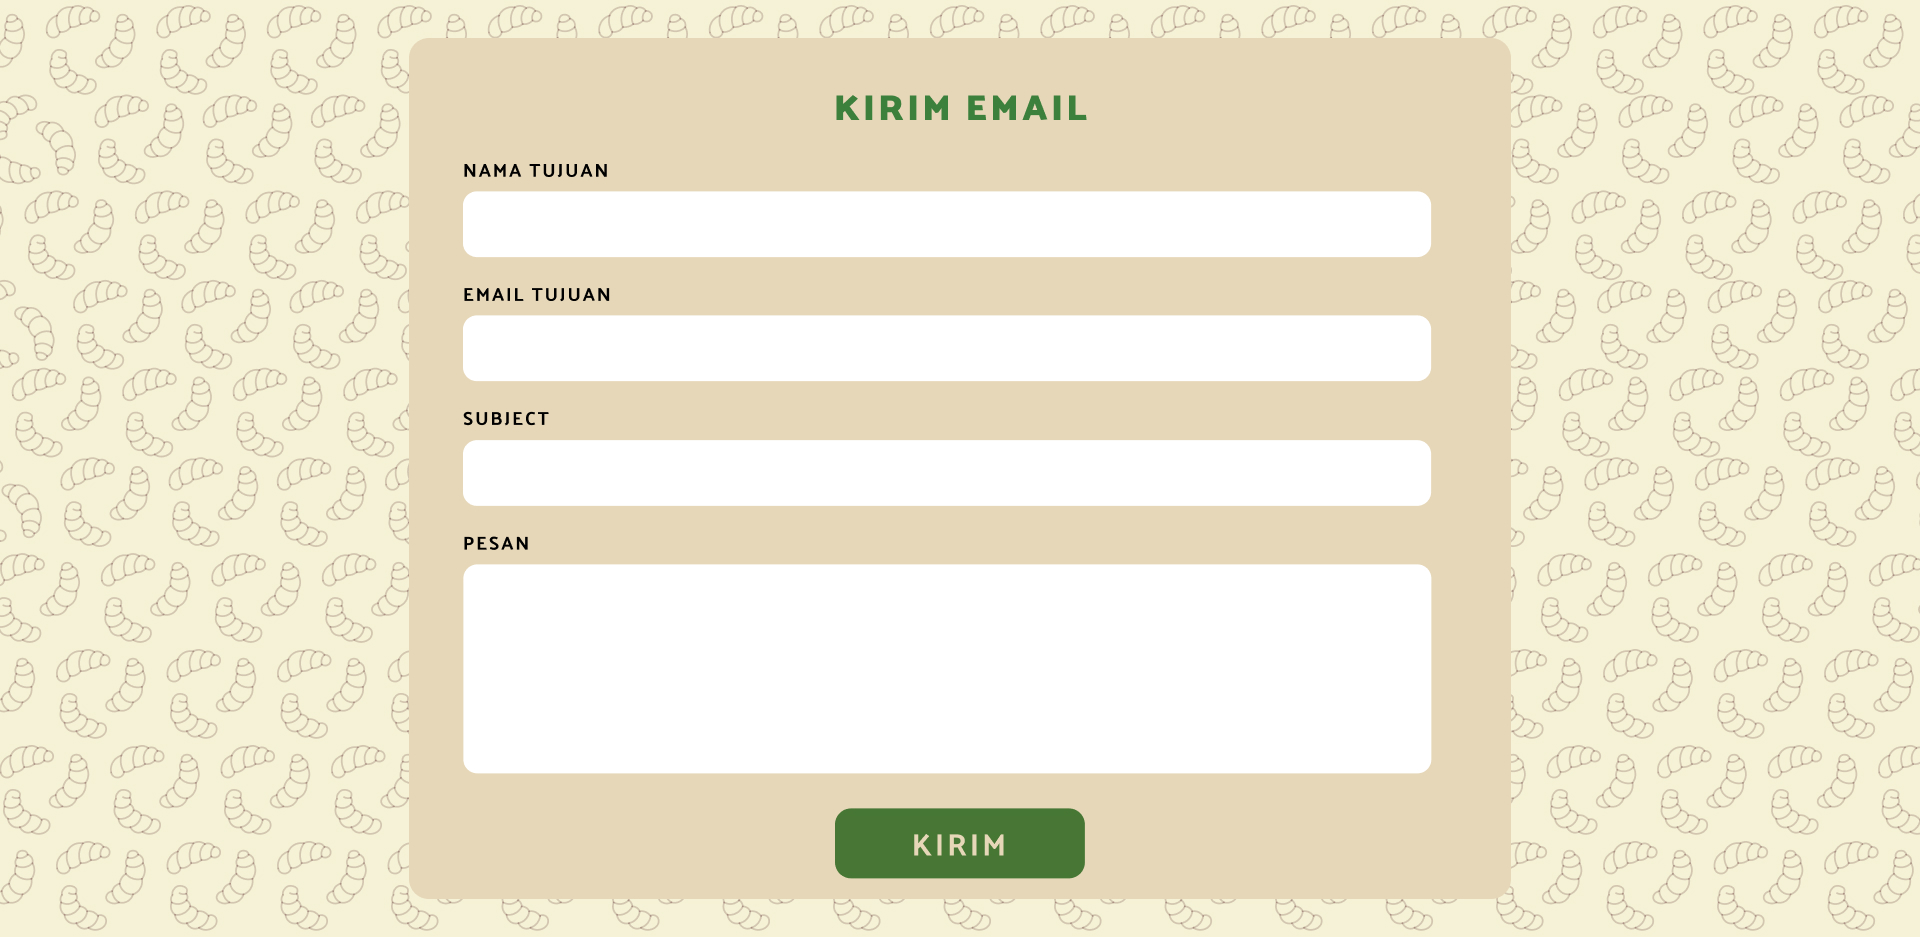
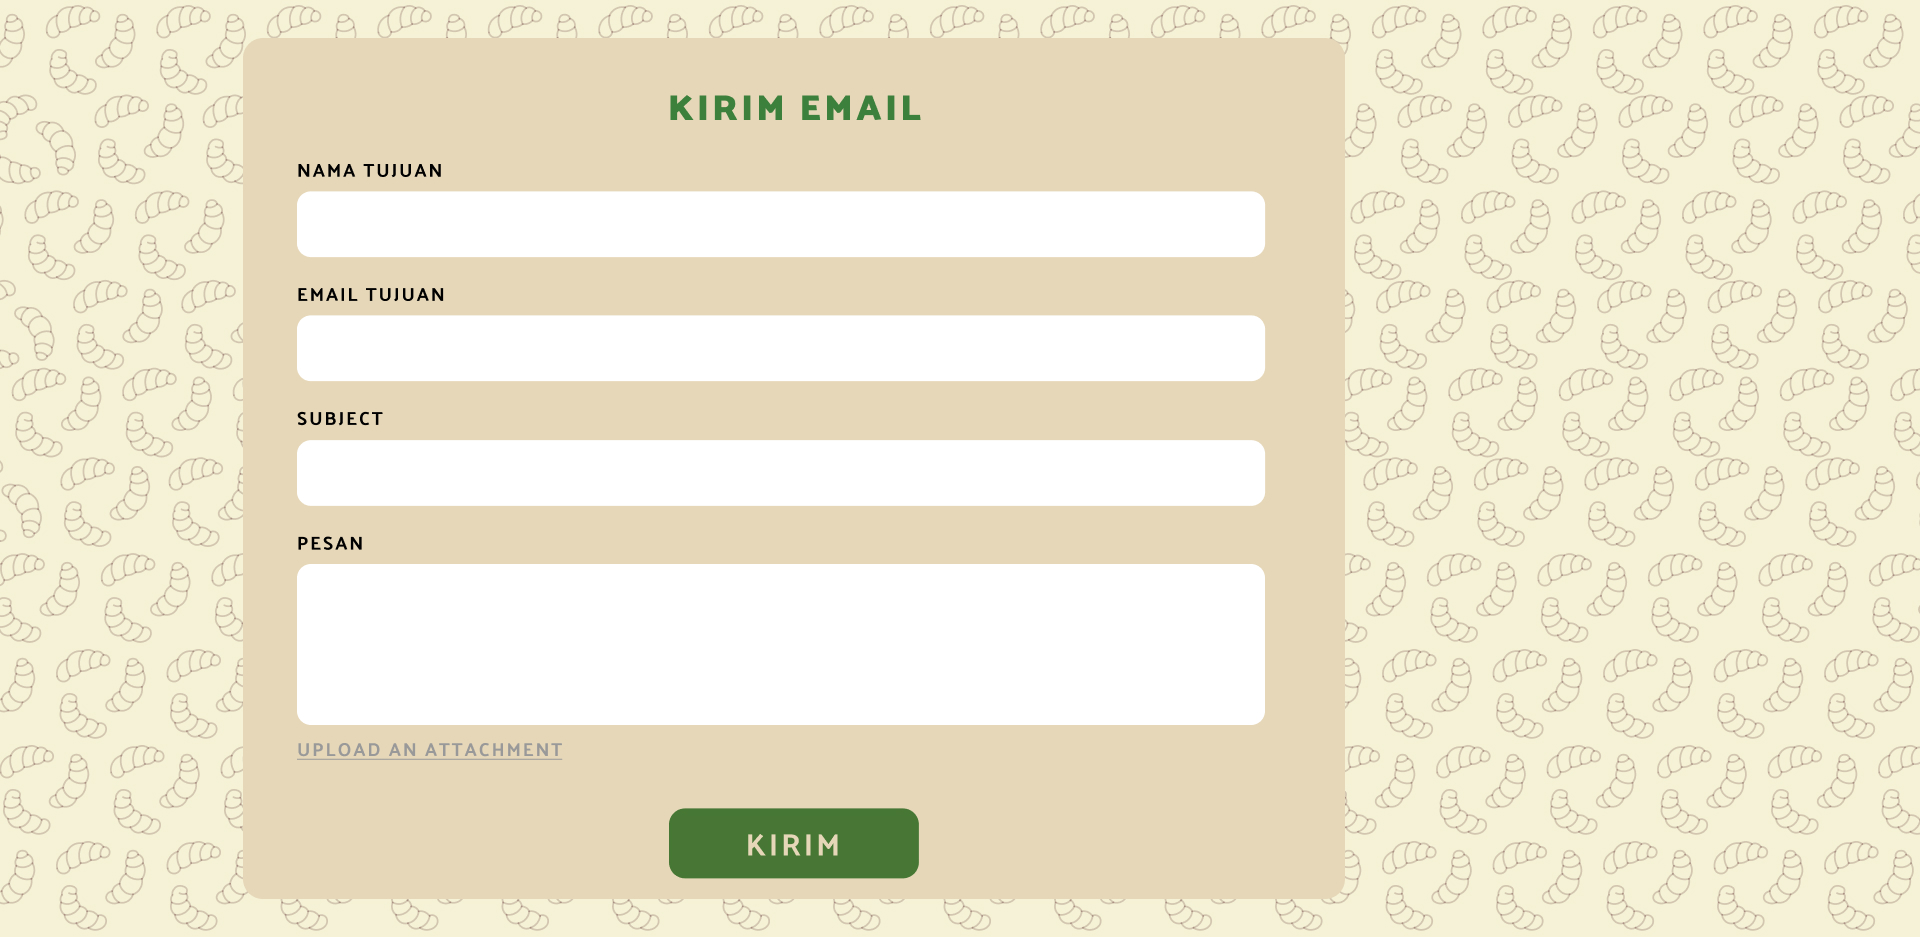
upload alll in one

diff --git a/Republik Larva/Views/V_SendEmail.Designer.cs b/Republik Larva/Views/V_SendEmail.Designer.cs
@@ -33,6 +33,10 @@
             subject = new TextBox();
             pesan = new RichTextBox();
             btnSendEmail = new Button();
+            dataGridView1 = new DataGridView();
+            uploadFile = new Button();
+            namaFile = new Label();
+            ((System.ComponentModel.ISupportInitialize)dataGridView1).BeginInit();
             SuspendLayout();
             // 
             // namaTujuan
@@ -40,46 +44,42 @@
             namaTujuan.BorderStyle = BorderStyle.None;
             namaTujuan.Cursor = Cursors.IBeam;
             namaTujuan.Font = new Font("Segoe UI", 16.2F, FontStyle.Regular, GraphicsUnit.Point, 0);
-            namaTujuan.Location = new Point(489, 206);
+            namaTujuan.Location = new Point(320, 206);
             namaTujuan.Name = "namaTujuan";
             namaTujuan.Size = new Size(917, 36);
             namaTujuan.TabIndex = 0;
-            namaTujuan.TextChanged += namaTujuan_TextChanged;
             // 
             // emailTujuan
             // 
             emailTujuan.BorderStyle = BorderStyle.None;
             emailTujuan.Cursor = Cursors.IBeam;
             emailTujuan.Font = new Font("Segoe UI", 16.2F, FontStyle.Regular, GraphicsUnit.Point, 0);
-            emailTujuan.Location = new Point(489, 331);
+            emailTujuan.Location = new Point(320, 330);
             emailTujuan.Name = "emailTujuan";
             emailTujuan.Size = new Size(917, 36);
             emailTujuan.TabIndex = 1;
-            emailTujuan.TextChanged += emailTujuan_TextChanged;
             // 
             // subject
             // 
             subject.BorderStyle = BorderStyle.None;
             subject.Cursor = Cursors.IBeam;
             subject.Font = new Font("Segoe UI", 16.2F, FontStyle.Regular, GraphicsUnit.Point, 0);
-            subject.Location = new Point(489, 456);
+            subject.Location = new Point(320, 456);
             subject.Name = "subject";
             subject.Size = new Size(917, 36);
             subject.TabIndex = 2;
-            subject.TextChanged += subject_TextChanged;
             // 
             // pesan
             // 
             pesan.BorderStyle = BorderStyle.None;
             pesan.Cursor = Cursors.IBeam;
             pesan.Font = new Font("Segoe UI", 16.2F, FontStyle.Regular, GraphicsUnit.Point, 0);
-            pesan.Location = new Point(489, 575);
+            pesan.Location = new Point(320, 577);
             pesan.Name = "pesan";
             pesan.ScrollBars = RichTextBoxScrollBars.Vertical;
-            pesan.Size = new Size(917, 186);
+            pesan.Size = new Size(917, 128);
             pesan.TabIndex = 3;
             pesan.Text = "";
-            pesan.TextChanged += pesan_TextChanged;
             // 
             // btnSendEmail
             // 
@@ -90,7 +90,7 @@
             btnSendEmail.FlatAppearance.MouseDownBackColor = Color.Transparent;
             btnSendEmail.FlatAppearance.MouseOverBackColor = Color.Transparent;
             btnSendEmail.FlatStyle = FlatStyle.Flat;
-            btnSendEmail.Location = new Point(835, 808);
+            btnSendEmail.Location = new Point(669, 808);
             btnSendEmail.Name = "btnSendEmail";
             btnSendEmail.Size = new Size(250, 70);
             btnSendEmail.TabIndex = 4;
@@ -99,11 +99,50 @@
             btnSendEmail.MouseEnter += btnSendEmail_MouseEnter;
             btnSendEmail.MouseLeave += btnSendEmail_MouseLeave;
             // 
+            // dataGridView1
+            // 
+            dataGridView1.BackgroundColor = Color.FromArgb(245, 242, 214);
+            dataGridView1.BorderStyle = BorderStyle.None;
+            dataGridView1.AutoSizeColumnsMode = DataGridViewAutoSizeColumnsMode.Fill;
+            dataGridView1.AutoSizeRowsMode = DataGridViewAutoSizeRowsMode.AllCells;
+            dataGridView1.ColumnHeadersHeightSizeMode = DataGridViewColumnHeadersHeightSizeMode.AutoSize;
+            dataGridView1.Location = new Point(1382, 43);
+            dataGridView1.Name = "dataGridView1";
+            dataGridView1.RowHeadersWidth = 51;
+            dataGridView1.Size = new Size(486, 855);
+            dataGridView1.TabIndex = 5;
+            // 
+            // uploadFile
+            // 
+            uploadFile.BackColor = Color.Transparent;
+            uploadFile.FlatAppearance.BorderSize = 0;
+            uploadFile.FlatAppearance.MouseDownBackColor = Color.Transparent;
+            uploadFile.FlatAppearance.MouseOverBackColor = Color.Transparent;
+            uploadFile.FlatStyle = FlatStyle.Flat;
+            uploadFile.Location = new Point(292, 735);
+            uploadFile.Name = "uploadFile";
+            uploadFile.Size = new Size(282, 29);
+            uploadFile.TabIndex = 6;
+            uploadFile.UseVisualStyleBackColor = false;
+            uploadFile.Click += uploadFile_Click;
+            // 
+            // namaFile
+            // 
+            namaFile.BackColor = Color.Transparent;
+            namaFile.Font = new Font("Segoe UI", 13.8F, FontStyle.Regular, GraphicsUnit.Point, 0);
+            namaFile.Location = new Point(594, 735);
+            namaFile.Name = "namaFile";
+            namaFile.Size = new Size(672, 39);
+            namaFile.TabIndex = 7;
+            // 
             // V_SendEmail
             // 
             AutoScaleDimensions = new SizeF(8F, 20F);
             AutoScaleMode = AutoScaleMode.Font;
             BackgroundImage = Properties.Resources.sendEmail;
+            Controls.Add(namaFile);
+            Controls.Add(uploadFile);
+            Controls.Add(dataGridView1);
             Controls.Add(btnSendEmail);
             Controls.Add(pesan);
             Controls.Add(subject);
@@ -112,6 +151,7 @@
             Name = "V_SendEmail";
             Size = new Size(1920, 937);
             Load += V_SendEmail_Load;
+            ((System.ComponentModel.ISupportInitialize)dataGridView1).EndInit();
             ResumeLayout(false);
             PerformLayout();
         }
@@ -125,5 +165,8 @@
         private TextBox subject;
         private RichTextBox pesan;
         private Button btnSendEmail;
+        private DataGridView dataGridView1;
+        private Button uploadFile;
+        private Label namaFile;
     }
 }

diff --git a/Republik Larva/Views/V_SendEmail.cs b/Republik Larva/Views/V_SendEmail.cs
@@ -2,26 +2,26 @@
 using MailKit;
 using Republik_Larva.Controller;
 using System;
-using System.Collections.Generic;
-using System.ComponentModel;
 using System.Data;
 using System.Drawing;
-using System.Linq;
-using System.Text;
-using System.Threading.Tasks;
-using MailKit.Net.Smtp;
 using System.Windows.Forms;
-using Republik_Larva.Controller;
+using MailKit.Net.Smtp;
+using Republik_Larva.Models;
 
 namespace Republik_Larva.Views
 {
     public partial class V_SendEmail : UserControl
     {
-        C_SendEmail c_SendEmail;
+        private C_SendEmail c_SendEmail;
+        private string attachmentPath = null;
+
         public V_SendEmail(C_SendEmail c_SendEmail)
         {
             InitializeComponent();
+            this.c_SendEmail = c_SendEmail;
+            LoadCustomerData();
         }
+
         private void btnSendEmail_Click(object sender, EventArgs e)
         {
             try
@@ -37,6 +37,11 @@ namespace Republik_Larva.Views
                     HtmlBody = $"<p>{pesan.Text}</p><br><footer>Powered by insensateecho@gmail.com</footer>"
                 };
 
+                if (!string.IsNullOrEmpty(attachmentPath))
+                {
+                    builder.Attachments.Add(attachmentPath);
+                }
+
                 email.Body = builder.ToMessageBody();
 
                 SmtpClient smtp = new SmtpClient();
@@ -45,45 +50,80 @@ namespace Republik_Larva.Views
                 smtp.Send(email);
                 smtp.Disconnect(true);
 
-                MessageBox.Show("Email berhasil dikirim!", "Sukses", MessageBoxButtons.OK, MessageBoxIcon.Information);
+                c_SendEmail.show_message_box("Email berhasil dikirim!");
+                
             }
             catch (Exception ex)
             {
-                MessageBox.Show($"Gagal mengirim email: {ex.Message}", "Error", MessageBoxButtons.OK, MessageBoxIcon.Error);
+                c_SendEmail.show_message_box($"Gagal mengirim email: {ex.Message}");
             }
         }
+
+        private void uploadFile_Click(object sender, EventArgs e)
+        {
+            OpenFileDialog openFileDialog = new OpenFileDialog
+            {
+                Title = "Pilih File",
+                Filter = "All files (*.*)|*.*"
+            };
+
+            if (openFileDialog.ShowDialog() == DialogResult.OK)
+            {
+                try
+                {
+                    attachmentPath = openFileDialog.FileName;
+                    namaFile.Text = $"File: {System.IO.Path.GetFileName(attachmentPath)}";
+                }
+                catch (Exception ex)
+                {
+                    c_SendEmail.show_message_box($"Gagal memuat file: {ex.Message}");
+                }
+            }
+        }
+
+        private void LoadCustomerData()
+        {
+            try
+            {
+                DataTable customerData = c_SendEmail.GetCustomerData();
+                if (customerData != null)
+                {
+                    dataGridView1.DataSource = customerData;
+                }
+                else
+                {
+                    c_SendEmail.show_message_box("Data pelanggan kosong.");
+                }
+            }
+            catch (Exception ex)
+            {
+                c_SendEmail.show_message_box($"Gagal memuat data pelanggan: {ex.Message}");
+            }
+        }
+
+        private void DisplayCustomerData(DataTable customerTable)
+        {
+            dataGridView1.DataSource = customerTable;
+            dataGridView1.Columns["customer_id"].HeaderText = "ID";
+            dataGridView1.Columns["nama_customer"].HeaderText = "Nama Pelanggan";
+            dataGridView1.Columns["email_customer"].HeaderText = "Email Pelanggan";
+
+            dataGridView1.Columns["customer_id"].Visible = false;
+        }
+
         private void btnSendEmail_MouseLeave(object sender, EventArgs e)
         {
             btnSendEmail.BackgroundImage = Properties.Resources.kirim;
         }
+
         private void btnSendEmail_MouseEnter(object sender, EventArgs e)
         {
             btnSendEmail.BackgroundImage = Properties.Resources.kirimHover;
         }
 
-        private void namaTujuan_TextChanged(object sender, EventArgs e)
-        {
-
-        }
-
-        private void emailTujuan_TextChanged(object sender, EventArgs e)
-        {
-
-        }
-
-        private void subject_TextChanged(object sender, EventArgs e)
-        {
-
-        }
-
-        private void pesan_TextChanged(object sender, EventArgs e)
-        {
-
-        }
-
         private void V_SendEmail_Load(object sender, EventArgs e)
         {
-
+            namaFile.Text = "Tidak ada file terpilih";
         }
     }
 }

diff --git a/Republik Larva/Controller/C_SendEmail.cs b/Republik Larva/Controller/C_SendEmail.cs
@@ -1,8 +1,10 @@
 using System;
 using System.Collections.Generic;
+using System.Data;
 using System.Linq;
 using System.Text;
 using System.Threading.Tasks;
+using Republik_Larva.Models;
 using Republik_Larva.Views;
 
 namespace Republik_Larva.Controller
@@ -11,11 +13,29 @@ namespace Republik_Larva.Controller
     {
         C_MainForm C_MainForm;
         V_SendEmail V_SendEmail;
+        M_Akun m_Akun;
         public C_SendEmail(C_MainForm controller)
         {
             C_MainForm = controller;
             V_SendEmail = new V_SendEmail(this);
             controller.moveView(V_SendEmail);
+        }
+        public DataTable GetCustomerData()
+        {
+            try
+            {
+                DataTable customerData = M_Customer.All();
+                if (customerData == null || customerData.Rows.Count == 0)
+                {
+                    Console.WriteLine("Tidak ada data pelanggan yang ditemukan.");
+                }
+                return customerData;
+            }
+            catch (Exception ex)
+            {
+                Console.WriteLine($"Error saat mengambil data customer: {ex.Message}");
+                throw;
+            }
         }
     }
 }

diff --git a/Republik Larva/Models/M_Customer.cs b/Republik Larva/Models/M_Customer.cs
@@ -1,0 +1,22 @@
+using System;
+using System.Collections.Generic;
+using System.Data;
+using System.Linq;
+using System.Text;
+using System.Threading.Tasks;
+
+namespace Republik_Larva.Models
+{
+    public class M_Customer : DatabaseWrapper
+    {
+        public static DataTable All()
+        {
+            string query = @"
+            SELECT nama_customer, email
+            FROM customer";
+
+            DataTable dataCustomer = queryExecutor(query);
+            return dataCustomer;
+        }
+    }
+}
